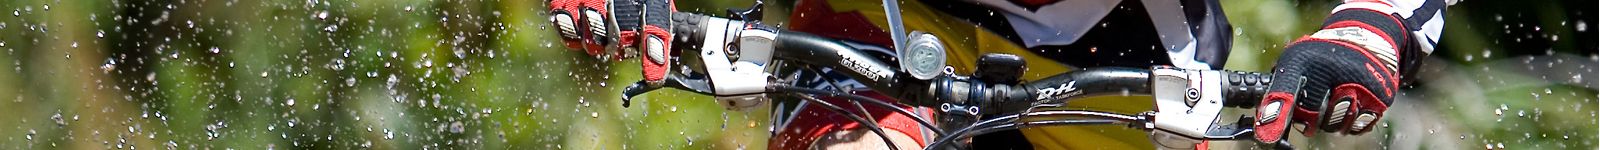
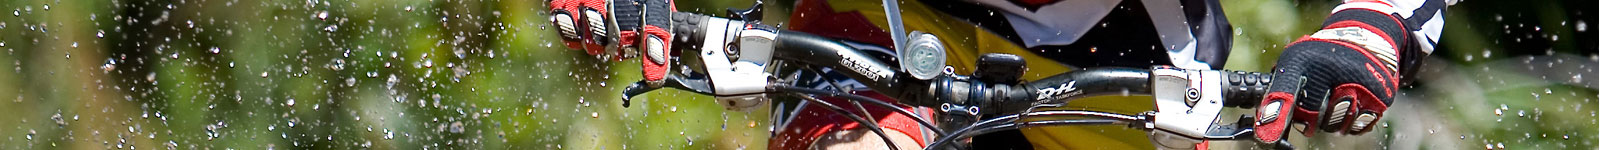
updated header images and css mods

diff --git a/css/print.css b/css/print.css
@@ -78,3 +78,234 @@ body {
 .print-friendly-body h3 {
 	font-size: 15px;
 }
+
+.two-brick > .panel-row > .region, .two-50 > .region, .three-50-25-25 > div.region-three-50-25-25-first, .three-25-50-25 > div.region-three-25-50-25-second, .three-25-25-50 > div.region-three-25-25-50-third, .five-5x20 > .row-1 div.region-five-first, .five-5x20 .row-1 div.region-five-second {
+    width: 50%;
+}
+
+
+.container {
+    width: 100%;
+}
+.two-sidebars .content-inner, .one-sidebar .content-inner, .region-sidebar-first, .region-sidebar-second {
+    margin-left: 0;
+    margin-right: 0;
+}
+.region-sidebar-first {
+    width: 50%;
+}
+.region-sidebar-second {
+    width: 50%;
+}
+.one-sidebar .sidebar {
+    width: 100%;
+}
+.region-sidebar-first, .region-sidebar-second {
+    clear: none;
+    float: left;
+    margin-top: 20px;
+    overflow: hidden;
+}
+.region-sidebar-first.block, .region-sidebar-second .block {
+    width: 100%;
+}
+.at-panel .region {
+    display: inline;
+    float: left;
+}
+.two-brick > .panel-row > .region, .two-66-33 > .region, .two-50 > .region, .two-33-66 > .region, .three-inset-right > .inset-wrapper, .three-inset-right > .inset-wrapper > .region, .three-inset-right > .region-three-inset-right-sidebar, .three-inset-left > .inset-wrapper, .three-inset-left > .inset-wrapper > .region, .three-inset-left > .region-three-inset-left-sidebar, .three-50-25-25 > .region, .three-3x33 > .region, .three-25-50-25 > .region, .three-25-25-50 > .region, .six-6x16 > .panel-row > .region, .six-6x16 > .panel-row, .four-4x25 > .panel-row > .region, .four-4x25 > .panel-row, .five-5x20 > .panel-row > .region, .five-5x20 > .panel-row {
+    clear: both;
+    display: block;
+    float: none;
+    width: 100%;
+}
+.container {
+    width: 100%;
+}
+.two-sidebars .content-inner, .one-sidebar .content-inner, .region-sidebar-first, .region-sidebar-second {
+    margin-left: 0;
+    margin-right: 0;
+}
+.region-sidebar-first {
+    width: 50%;
+}
+.region-sidebar-second {
+    width: 50%;
+}
+.one-sidebar .sidebar {
+    width: 100%;
+}
+.region-sidebar-first, .region-sidebar-second {
+    clear: none;
+    float: left;
+    margin-top: 20px;
+    overflow: hidden;
+}
+.region-sidebar-first.block, .region-sidebar-second .block {
+    width: 100%;
+}
+.at-panel .region {
+    display: inline;
+    float: left;
+}
+.two-brick > .panel-row {
+    float: none;
+}
+.two-brick > .panel-row > .region, .two-50 > .region, .three-50-25-25 > .region-three-50-25-25-second, .three-50-25-25 .region-three-50-25-25-third, .three-3x33 > .region, .four-4x25 > .panel-row > .region, .five-5x20 > .panel-row > div.region {
+    width: 50%;
+}
+.two-66-33 > .region-two-66-33-first, .two-33-66 > .region-two-33-66-second {
+    width: 66.6667%;
+}
+.two-66-33 > .region-two-66-33-second, .two-33-66 > .region-two-33-66-first {
+    width: 33.3333%;
+}
+.three-inset-right > .region-three-inset-right-sidebar, .three-25-50-25 > div.region-three-25-50-25-third, .three-25-25-50 > div.region-three-25-25-50-second {
+    width: 25%;
+}
+.three-inset-right > .inset-wrapper {
+    float: left;
+    width: 75%;
+}
+.three-inset-right > .inset-wrapper > .region, .three-inset-left > .inset-wrapper > .region, .three-50-25-25 > .region-three-50-25-25-first, .three-3x33 > div.region-three-33-first, .three-25-50-25 > .region-three-25-50-25-first, .three-25-25-50 > .region-three-25-25-50-first, .six-6x16 > .panel-row, .four-4x25 > .panel-row, .five-5x20 > div.panel-row, .five-5x20 > div.panel-row > div.region-five-fifth {
+    clear: both;
+    display: block;
+    float: none;
+    width: 100%;
+}
+.three-inset-left > .region-three-inset-left-sidebar {
+    float: right;
+    width: 25%;
+}
+.three-inset-left > .inset-wrapper {
+    float: right;
+    width: 75%;
+}
+.three-25-50-25 > div.region-three-25-50-25-second, .three-25-25-50 > div.region-three-25-25-50-third {
+    width: 75%;
+}
+.six-6x16 > .panel-row > .region {
+    float: left;
+    width: 50%;
+}
+.container {
+    width: 100%;
+}
+#content-column, .content-column, div.sidebar {
+    clear: none;
+    float: left;
+}
+.two-sidebars .content-inner {
+    margin-left: 20%;
+    margin-right: 20%;
+}
+.sidebar-first .content-inner {
+    margin-left: 20%;
+    margin-right: 0;
+}
+.sidebar-second .content-inner {
+    margin-left: 0;
+    margin-right: 20%;
+}
+.region-sidebar-first {
+    margin-left: -100%;
+    width: 20%;
+}
+.region-sidebar-second {
+    margin-left: -20%;
+    width: 20%;
+}
+.at-panel .region {
+    display: inline;
+    float: left;
+}
+.two-brick > .panel-row {
+    float: none;
+}
+.two-brick > .panel-row > .region, .two-50 > .region, .three-50-25-25 > div.region-three-50-25-25-first, .three-25-50-25 > div.region-three-25-50-25-second, .three-25-25-50 > div.region-three-25-25-50-third, .five-5x20 > .row-1 div.region-five-first, .five-5x20 .row-1 div.region-five-second {
+    width: 50%;
+}
+.two-66-33 > .region-two-66-33-first, .two-33-66 > .region-two-33-66-second, .three-inset-right > .inset-wrapper > div.region-three-inset-right-middle, .three-inset-left > .inset-wrapper > div.region-three-inset-left-middle {
+    width: 66.6667%;
+}
+.two-66-33 > .region-two-66-33-second, .two-33-66 > .region-two-33-66-first, .three-inset-right > .inset-wrapper > div.region-three-inset-right-inset, .three-inset-left > .inset-wrapper > div.region-three-inset-left-inset, .three-3x33 > .region, .five-5x20 > .panel-row > .region {
+    width: 33.3333%;
+}
+.three-inset-right > .region-three-inset-right-sidebar, .three-inset-left > .region-three-inset-left-sidebar, .three-50-25-25 > .region, .three-25-50-25 > .region, .three-25-25-50 > .region {
+    width: 25%;
+}
+.three-inset-right > .inset-wrapper {
+    float: left;
+    width: 75%;
+}
+.three-inset-right > .inset-wrapper > .region, .three-inset-left > .inset-wrapper > .region {
+    width: 100%;
+}
+.three-inset-left > .region-three-inset-left-sidebar, .three-inset-left > .inset-wrapper, .three-inset-left > .inset-wrapper > .region-three-inset-left-middle {
+    float: right;
+}
+.three-inset-left > .inset-wrapper {
+    width: 75%;
+}
+.six-6x16 > .panel-row {
+    float: left;
+    width: 33.3333%;
+}
+.six-6x16 > .panel-row > .region, .five-5x20 > .panel-row {
+    clear: both;
+    display: block;
+    float: none;
+    width: 100%;
+}
+.four-4x25 > .panel-row > .region, .four-4x25 > .panel-row {
+    float: left;
+    width: 50%;
+}
+.container {
+    max-width: 1260px;
+    width: 100%;
+}
+#content-column, .content-column, div.sidebar {
+    clear: none;
+    float: left;
+}
+.two-sidebars .content-inner {
+    margin-left: 25%;
+    margin-right: 25%;
+}
+.sidebar-first .content-inner {
+    margin-left: 25%;
+    margin-right: 0;
+}
+.sidebar-second .content-inner {
+    margin-left: 0;
+    margin-right: 25%;
+}
+.region-sidebar-first {
+    margin-left: -100%;
+    width: 25%;
+}
+.region-sidebar-second {
+    margin-left: -25%;
+    width: 25%;
+}
+.at-panel .region {
+    display: inline;
+    float: left;
+}
+.two-brick > .panel-row {
+    float: none;
+}
+.two-brick > .panel-row > .region, .two-50 > .region, .three-50-25-25 > div.region-three-50-25-25-first, .three-25-50-25 > div.region-three-25-50-25-second, .three-25-25-50 > div.region-three-25-25-50-third, .five-5x20 > .row-1 div.region-five-first, .five-5x20 .row-1 div.region-five-second {
+    width: 50%;
+}
+.two-66-33 > .region-two-66-33-first, .two-33-66 > .region-two-33-66-second, .three-inset-right > .inset-wrapper > div.region-three-inset-right-middle, .three-inset-left > .inset-wrapper > div.region-three-inset-left-middle {
+    width: 66.6667%;
+}
+.two-66-33 > .region-two-66-33-second, .two-33-66 > .region-two-33-66-first, .three-inset-right > .inset-wrapper > div.region-three-inset-right-inset, .three-inset-left > .inset-wrapper > div.region-three-inset-left-inset, .three-3x33 > .region, .five-5x20 > .panel-row > .region {
+    width: 33.3333%;
+}
+
+
+
+

diff --git a/css/styles.custom.css b/css/styles.custom.css
@@ -111,7 +111,7 @@ body.sport-help #header-wrapper {
 }
 
 body.page-lodging #header-wrapper {
-  background: #ffffff url('../images/goz_smbg_home5.jpg') no-repeat scroll top center;
+  background: #ffffff url('../images/goz_smbg_home.jpg') no-repeat scroll top center;
 }
   
 body.section-home #header-wrapper {

diff --git a/css/responsive.custom.css b/css/responsive.custom.css
@@ -155,7 +155,7 @@
     background-position: 75% 0;
   }
 
-  .at-panel .region-two-50-second {
+  body.section-home .at-panel .region-two-50-second {
     background-image: url('../images/bg_vertical_border.png');
     background-attachment: inherit;
     background-repeat: repeat-y;
